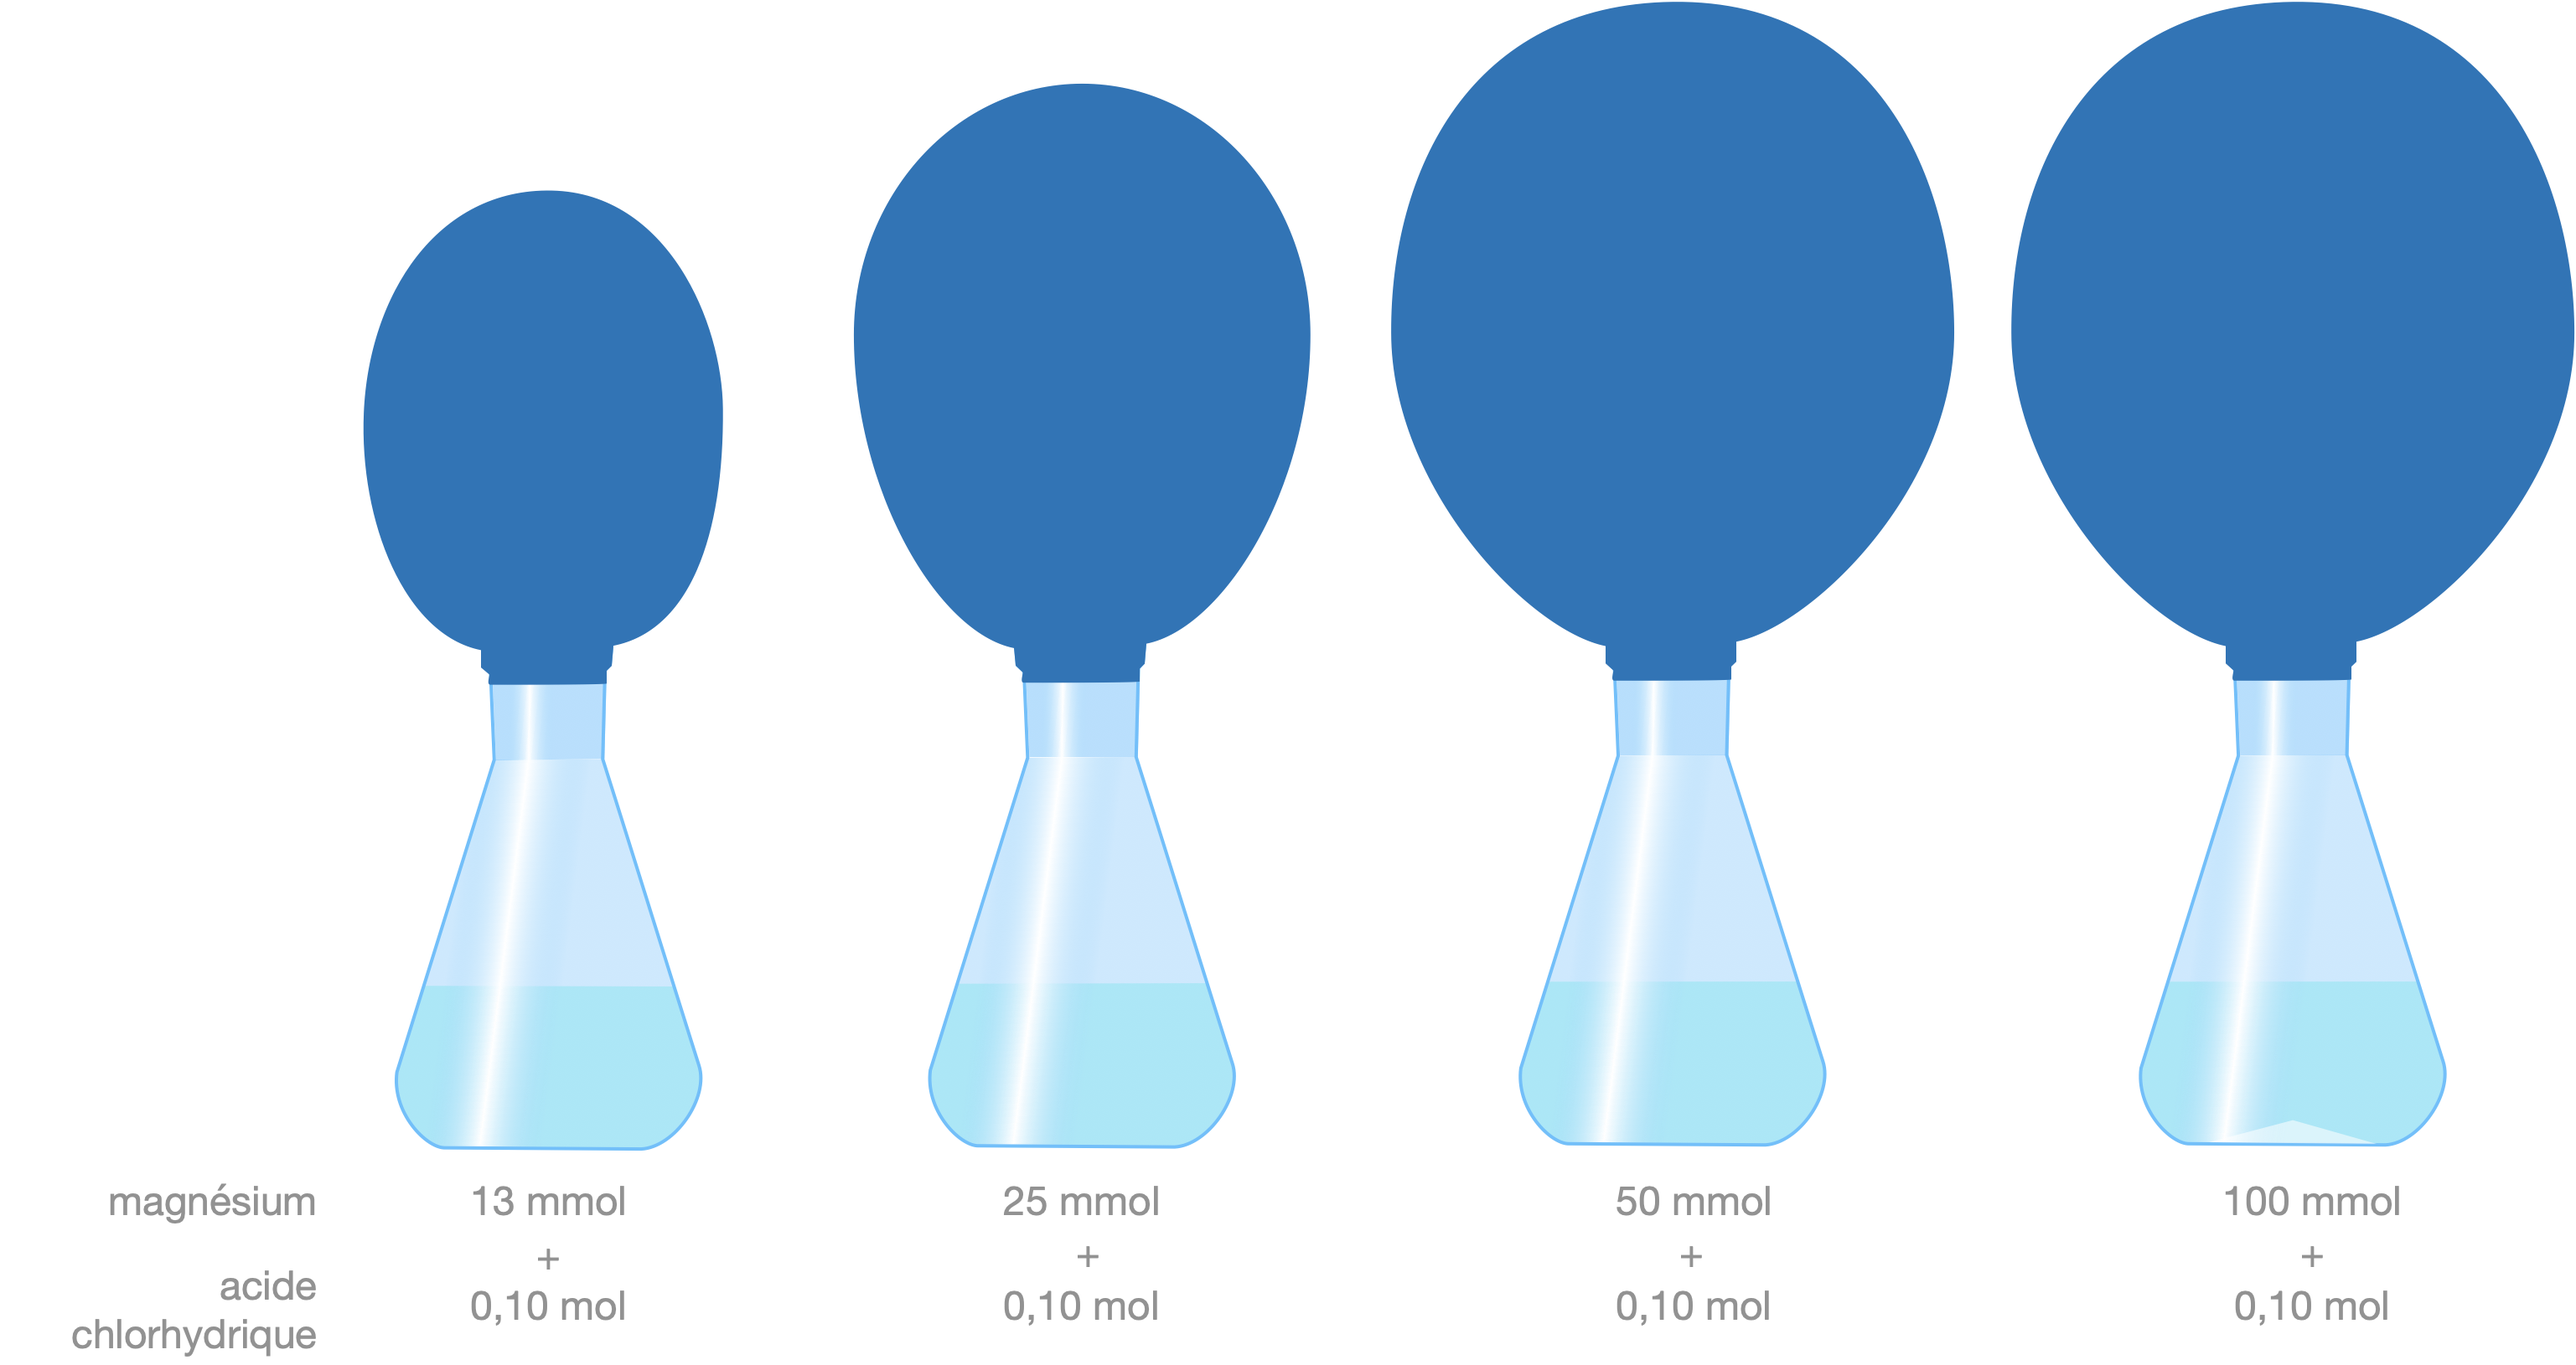
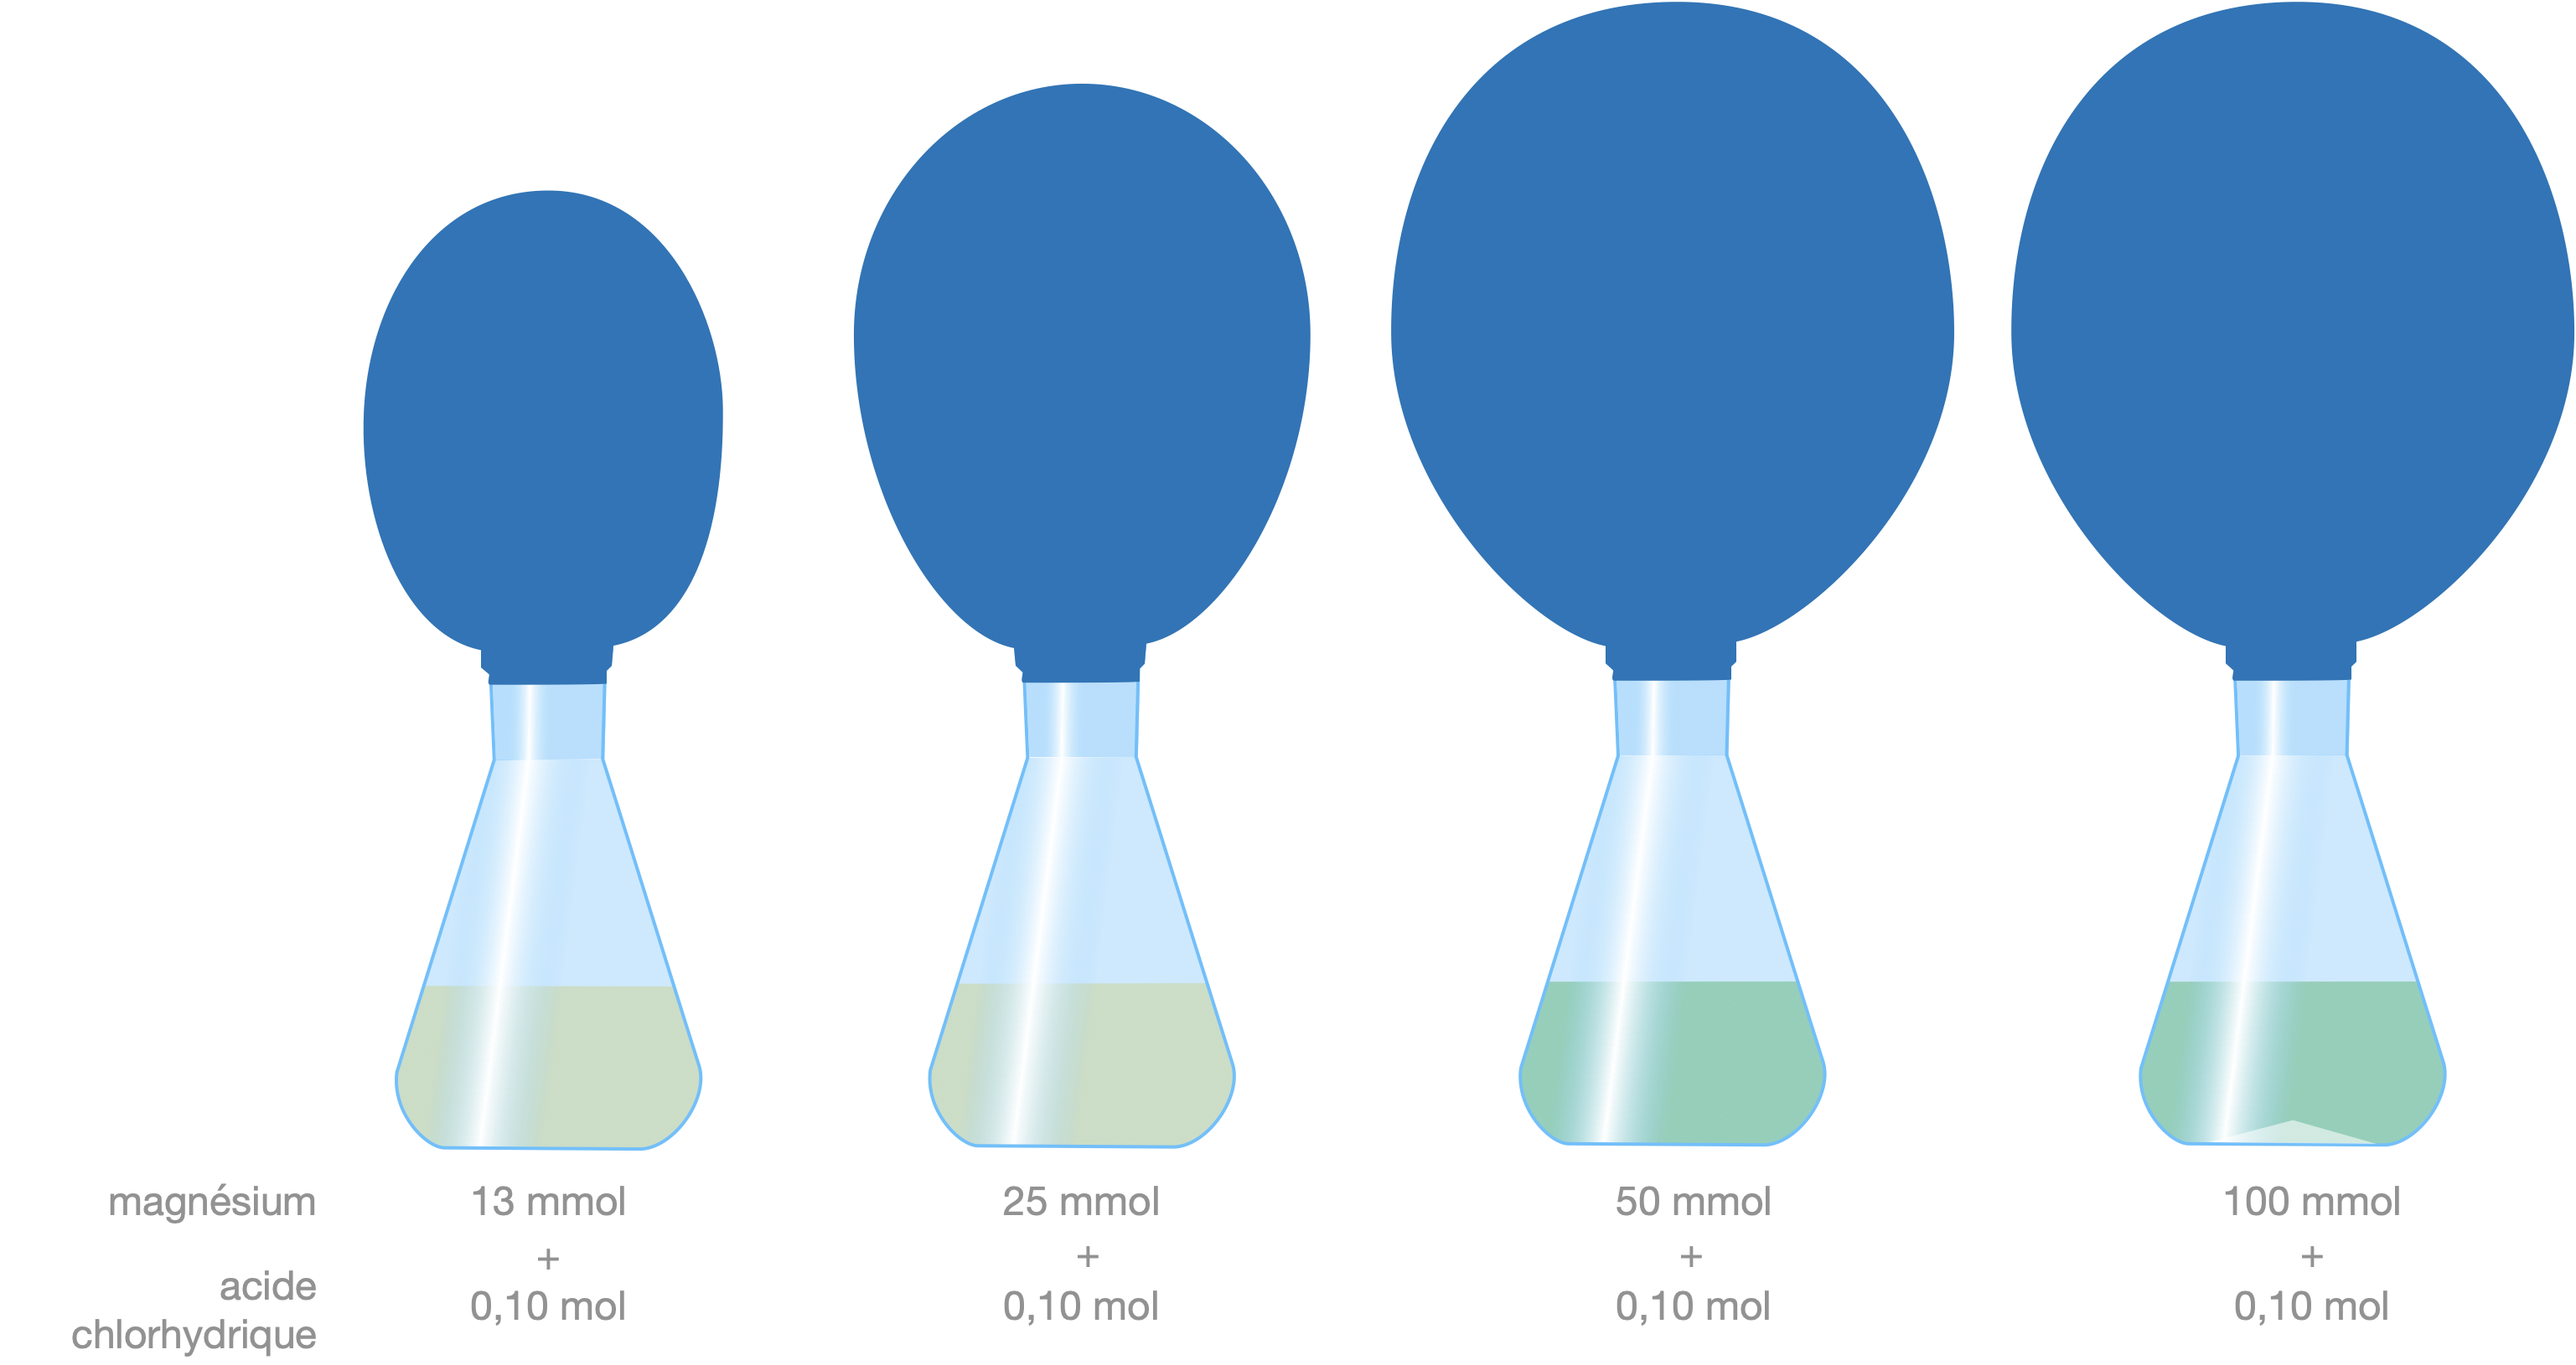
-

diff --git a/2nde/solutions/index.html b/2nde/solutions/index.html
@@ -235,12 +235,13 @@ On peut dissoudre au maximum<br>1,3 g d'aspirine dans ce volume.
 <p class="fragment">Lors du remplissage de la fiole, il faut que<br>le <b class="imp">bas du ménisque</b> affleure le <b class="imp">trait de jauge</b>.</p>
 <img class="fragment" src="/menisque.jpeg">
 </section><section>
-<p>Si on dépasse un peu le trait de jauge lors du remplissage de la fiole, pourquoi ne peut-on pas retirer le trop plein avec une pipette ?</p>
+<p><i class="fas fa-exclamation-triangle" style="color:#E22146"></i> <i class="fas fa-exclamation-triangle" style="color:#E22146"></i> <i class="fas fa-exclamation-triangle" style="color:#E22146"></i><br> Si on dépasse un peu le trait de jauge<br>lors du remplissage de la fiole,<br>pourquoi ne peut-on pas retirer<br>le trop plein avec une pipette ?</p>
+<p class="imp fragment">Du soluté est dissous dedans !</p>
 
 </section>
 </section><section>
-<p>Comment faire pour diminuer<br>la concentration d&rsquo;une solution ?</p>
-<p class="fragment">On ajoute du solvant = on dilue.</p>
+<p>Comment faire pour <span class="imp">diminuer<br>la concentration d&rsquo;une solution</span> ?</p>
+<p class="fragment">On <span = class="imp">ajoute du solvant</span> = on <span = class="imp">dilue</span>.</p>
 </section><section>
 
 
@@ -263,7 +264,7 @@ On peut dissoudre au maximum<br>1,3 g d'aspirine dans ce volume.
 </section><section>
 <p>On pipette dans la solution mère le volume $V_{mère}$ qu&rsquo;on verse dans la fiole de volume $V_{fille}$<br>avant de compléter d&rsquo;eau.</p>
 </section><section>
-<p>Le facteur de dilution $F$ est le nombre de fois<br>que la solution est diluée = le nombre par lequel<br>sa concentration est divisée ($F&gt;1$).</p>
+<p>Le <span class="imp">facteur de dilution $F$</span> est le nombre de fois<br>que la solution est diluée = le nombre par lequel<br>sa concentration est divisée ($F&gt;1$).</p>
 <br>
 <p class="fragment">Déterminez $F$ en fonction de $C_{mère}$ et $C_{fille}$,<br>puis en fonction de $V_{mère}$ et $V_{fille}$<br>et enfin en fonction de $V_{fiole}$ et $V_{pipette}$.</p>
 </section><section>
@@ -284,7 +285,7 @@ $$\Rightarrow V_{mère}=\frac{V_{fille}}{F}=\frac{\pu{250 mL}}{5} =\pu{50 mL}$$
 <ul class="fragment" style="color:#45B53C">
 <li>On prélève la solution mère avec la pipette,</li> 
 <li>on verse le contenu de la pipette dans la fiole vide,</li> 
-<li>on complète par de l'eau distillé jusqu'au trait de jauge en pensant à agiter à mitan.</li></ul>
+<li>on complète par de l'eau distillée jusqu'au trait de jauge en pensant à agiter à mitan.</li></ul>
 
 </section>
 </section><section>

diff --git a/2nde/reaction/index.html b/2nde/reaction/index.html
@@ -207,6 +207,8 @@ $$\ce{NaHCO3 (s) + CH3COOH (aq) = CO2 (g) + Na+(aq) + H2O (l) + CH3COO- (aq)}$$
 <p>On verse une certaine masse de poudre<br>de magnésium dans une solution<br>d&rsquo;acide chlorhydrique.</p>
 </section><section>
 <iframe width="560" height="315" src="https://www.youtube.com/embed/9oZZwdWvChw?start=95" frameborder="0" allowfullscreen></iframe>
+</section><section>
+<p>On ajoute quelques gouttes de BBT dans les erlenmeyer.s Le BBT est un indicateur coloré qui est jaune en présence d&rsquo;ions $\ce{H3O+}$ et vert ou bleu sinon.</p>
 </section>
 <section data-noprocess data-shortcode-slide
       data-background-image="/ballonsexp2.png"
@@ -230,7 +232,7 @@ $$\ce{NaHCO3 (s) + CH3COOH (aq) = CO2 (g) + Na+(aq) + H2O (l) + CH3COO- (aq)}$$
 <p>Les espèces chimiques présentes à la fin :</p>
 <ul>
 <li>$\ce{H3O+ (aq)}$ (seulement dans les ballons 1 et 2)</li>
-<li>$\ce{Cl- (aq)}$</li>
+<li>$\ce{Cl- (aq)}$ (autant qu&rsquo;au départ)</li>
 <li>$\ce{H2O (l)}$ (plus qu&rsquo;au départ)</li>
 <li>$\ce{Mg (s)}$ (seulement dans le ballon 4)</li>
 <li>$\ce{Mg^{2+} (aq)}$</li>
@@ -298,7 +300,7 @@ Ils sont donc tous les deux limitants.</p>
 <p>Et quelle est la relation<br>entre $n_{\ce{H2 \text{produit}}}$ et  $n_{\ce{H3O+ \text{consommé}}}$<br>lorsque l&rsquo;ion oxonium est limitant ?</p>
 <p class="fragment" style="color:#1DB100">$n_{\ce{H2 \text{produit}}} = \frac{1}{2}n_{\ce{H3O+ \text{consommé}}}$ </p>
 </section><section>
-<p>Donc pour 1 mole de $\ce{H2 (g)}$ produite,<br>il y a 1 mole de $\ce{Mg (s)}$ consommée<br>et <span class="imp" style="color:#D41876">2</span> moles de $\ce{H3O+ (aq)}$  !</p>
+<p>Donc pour 1 mole de $\ce{H2 (g)}$ produite,<br>il y a 1 mole de $\ce{Mg (s)}$ <br>et <span class="imp" style="color:#D41876">2</span> moles de $\ce{H3O+ (aq)}$  consommées !</p>
 </section><section>
 <p>L&rsquo;équation de la réaction modélisant tout ça s&rsquo;écrit :</p>
 <div class="fragment" style="display: flex; justify-content: center; align-items: center; height: 100%;">
